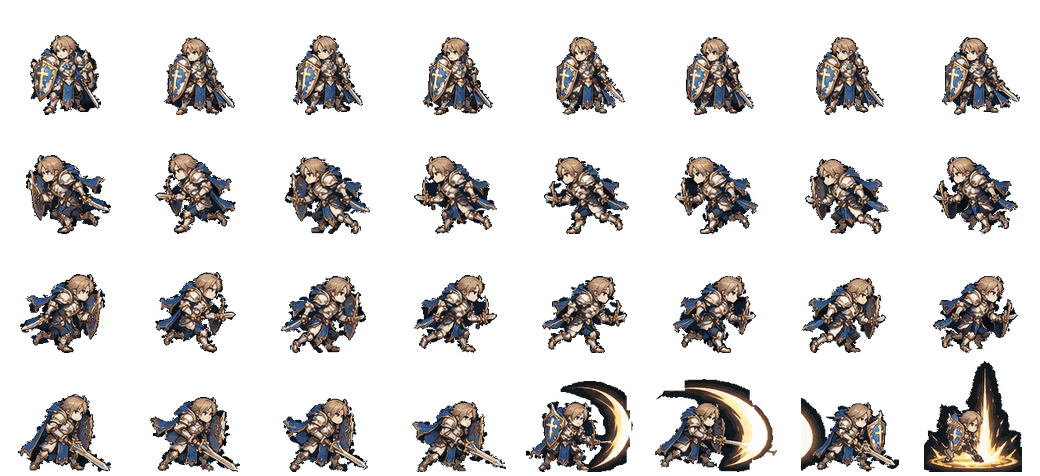
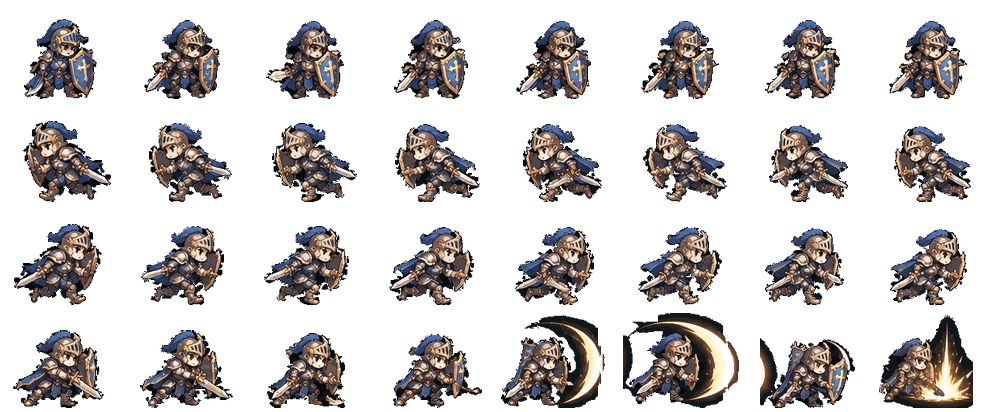
성기사 시안을 갈아 끼운다 — 화풍이 다른 캐릭터와 맞지 않았다
처음 시안은 투구 없는 맨머리에 채색이 밝아, 열여섯이 같은 결로 모인 자리에
하나만 다른 손에서 온 것으로 보였다. 새 시안으로 다시 구웠다(칸 130×119 →
124×103, `box` 34 → 29, 인물 21.4칸으로 다른 아군과 같다).

**세 줄이 다 오른쪽을 보는 시안이라 대기와 공격을 그대로 구웠다.** 아군이 보아야
할 방향이 오른쪽이라 뒤집을 것이 없었고 걷기만 왼쪽을 만들어 붙였다 — 앞 시안과
정반대다(그쪽은 걷기가 왼쪽이라 대기를 뒤집었다). 투구를 쓰고 있어 방향은 눈이
아니라 면갑의 창살과 깃털로 읽는다.

칸이 작아진 만큼 잘라 내는 자리도 다시 쟀다. 초상화는 투구 전체가 들어오도록
넓혔다 — 처음 값으로는 투구 위쪽만 잡혀 면갑이 잘렸다.

Claude-Session: https://claude.ai/code/session_015YSpsURuUqPhSx5KiHykMJ

diff --git a/games/healer/sprites.js b/games/healer/sprites.js
@@ -209,17 +209,19 @@ const SHEETS = {
     },
   },
 
-  // 성기사. **칸이 아군 중에 가장 크다**(130×119, 다음이 음유시인의 102×95).
-  // 공격의 마지막 두 장이 인물만 한 빛의 초승달과 위로 솟는 빛기둥이라, 칸을
-  // 인물에 맞춰 자르면 그것이 잘린다. **인물 키는 다른 아군과 같은 21.7칸**이고
-  // (`box` 34는 칸 높이를 화면 칸으로 옮긴 값이라 인물이 커지는 것이 아니다),
-  // 남는 자리는 전부 투명하다 — 규칙은 이 상자를 보지 않고 화면의 노드 폭만
-  // 이것으로 정한다.
+  // 성기사. **시안을 한 번 갈아 끼웠다** — 처음 것은 다른 캐릭터와 화풍이 맞지
+  // 않았다(투구 없는 맨머리에 채색이 밝았다). 지금 것은 투구를 쓰고 있어 얼굴이
+  // 보이지 않으므로, **방향은 면갑의 창살과 깃털로 읽는다** — 창살이 앞, 깃털이
+  // 뒤다.
+  //
+  // **세 줄이 다 오른쪽을 보는 시안이라 대기와 공격을 그대로 구웠다.** 아군이
+  // 보아야 할 방향이 오른쪽이라 뒤집을 것이 없었고, 걷기만 왼쪽을 만들어 붙였다 —
+  // 앞 시안과 정반대다(그쪽은 걷기가 왼쪽이었다).
   paladin: {
     src: 'paladin.png',
-    cell: { w: 130, h: 119 },
+    cell: { w: 124, h: 103 },
     cols: 8, rows: 4,
-    box: 34,
+    box: 29,
     clips: {
       idle:      { row: 0, frames: 8, fps: 6 },
       walkLeft:  { row: 1, frames: 8, fps: 10 },
@@ -228,8 +230,8 @@ const SHEETS = {
     },
     crops: {
       full: { x: 0, y: 0, w: 1, h: 1 },
-      list: { x: 0.25, y: 0.28, w: 0.58, h: 0.70 },
-      head: { x: 0.35, y: 0.25, w: 0.28, h: 0.30 },
+      list: { x: 0.18, y: 0.18, w: 0.60, h: 0.79 },
+      head: { x: 0.36, y: 0.17, w: 0.30, h: 0.36 },
     },
   },
 

diff --git a/index.html b/index.html
@@ -121,7 +121,7 @@
     <a href="https://github.com/cshlacid/web-games">GitHub</a>
     <!-- 배포 표시. main에 머지할 때마다 올린다 — 규칙은 CLAUDE.md에 있다.
          날짜에 그날의 번호를 붙여, 같은 날 여러 번 올려도 구별된다. -->
-    <span class="deploy">2026-09-09.20</span>
+    <span class="deploy">2026-09-09.21</span>
   </footer>
 </main>
 

diff --git a/games/healer/CLAUDE.md b/games/healer/CLAUDE.md
@@ -1955,21 +1955,23 @@ Lv6 알맞음 75% · Lv6+3 방치 4% · Lv6+3 42% · Lv3+2 46% · Lv8+2 25% · L
   마법사는 칸 84×96에 공격만 7장, 도적은 칸 101×88에, 음유시인은 칸 102×95에,
   사제는 칸 102×89에, 전사는 칸 93×90에, 고블린은 칸 98×107에, 오크는 칸 92×90에,
   오우거는 칸 98×99에, 우두머리는 칸 117×100에, 좀비는 칸 99×103에, 구울은
-  칸 97×105에, 성기사는 칸 130×119에 넷 다 8장이고,
+  칸 97×105에, 성기사는 칸 124×103에 넷 다 8장이고,
   오크 주술사는 칸 93×99에, 고블린 주술사는 칸 95×92에 공격만 7장이다. 줄마다 프레임 수가 달라 남는 칸은 비워 둔다 —
   줄을 나누는 편이 파일을 여럿으로 쪼개는 것보다 요청이 적다.
-- **성기사의 칸이 아군 중에 가장 크다**(130×119, 다음이 음유시인의 102×95).
-  공격의 마지막 두 장이 인물만 한 빛의 초승달과 위로 솟는 빛기둥이라, 칸을 인물에
-  맞춰 자르면 그것이 잘린다. **칸이 커져도 인물은 다른 아군과 같은 21.7칸이다** —
-  `box`(34)는 칸 높이를 화면 칸으로 옮긴 값이라 인물을 키우지 않고, 규칙은 이
-  상자를 아예 보지 않는다(`Sprites.size`를 쓰는 곳은 화면의 노드 폭 하나뿐이다).
-  대신 **잘라 내는 자리를 인물에 바짝 붙여야 한다** — 칸이 넓은 만큼 기본값으로는
-  카드에서 혼자 작게 그려진다.
-- **시안의 공격 효과가 칸 선을 넘어 그려져 있었다.** 초승달이 다음 칸 절반까지
-  뻗어 있어 칸 안으로만 자르면 세로로 뭉텅 잘렸다. 오른쪽으로만 창을 넓히고
-  (왼쪽까지 넓히면 앞 장의 초승달 꼬리가 들어온다) 넓힌 자리에서는 **밝고 금빛인
-  것만** 줍는다 — 다음 칸 인물의 남색 망토가 초승달 끝과 이어져 있어 밝기만으로는
-  안 갈렸다.
+- **성기사는 시안을 한 번 갈아 끼웠다.** 처음 것은 투구 없는 맨머리에 채색이
+  밝아 **다른 캐릭터와 화풍이 맞지 않았다** — 열여섯이 같은 결로 모인 자리에
+  하나만 다른 손에서 온 것으로 보였다. 지금 것은 투구를 쓰고 있어 **방향을 눈이
+  아니라 면갑의 창살과 깃털로 읽는다**(창살이 앞, 깃털이 뒤다).
+- **세 줄이 다 오른쪽을 보는 시안이라 대기와 공격을 그대로 구웠다.** 아군이 보아야
+  할 방향이 오른쪽이라 뒤집을 것이 없었고, 걷기만 왼쪽을 만들어 붙였다 — 앞
+  시안과 정반대다(그쪽은 걷기가 왼쪽이라 대기를 뒤집었다). **시안마다 다르므로
+  구운 뒤에 네 줄을 다시 본다.**
+- **공격 효과가 칸 선을 넘는 시안이 있다.** 앞 성기사 시안이 그랬는데, 초승달이
+  다음 칸 절반까지 뻗어 있어 칸 안으로만 자르면 세로로 뭉텅 잘렸다. 오른쪽으로만
+  창을 넓히고(왼쪽까지 넓히면 앞 장의 초승달 꼬리가 들어온다) 넓힌 자리에서는
+  **밝고 금빛인 것만** 줍는다 — 다음 칸 인물의 남색 망토가 초승달 끝과 이어져
+  있어 밝기만으로는 안 갈렸다. 지금 시안은 넘지 않지만 오리는 스크립트는 그대로
+  두었다: 넘지 않는 시안에서는 아무것도 달라지지 않는다.
 - **적 시안은 뒤집지 않는다.** 아군은 대기와 공격이 오른쪽(적 쪽)을 봐야 해서
   대기 줄을 뒤집는데, 적은 파티를 마주 보므로 왼쪽이 맞는 방향이고 시안이 이미
   그쪽을 본다. 걷기 두 줄은 아군과 같다 — 왼쪽이 원본, 오른쪽이 뒤집은 것.
@@ -1977,8 +1979,9 @@ Lv6 알맞음 75% · Lv6+3 방치 4% · Lv6+3 42% · Lv3+2 46% · Lv8+2 25% · L
   **적 여덟이 모두 공격에서 오른쪽을 보고 있었다** — 시안의 공격이 전부 오른쪽으로
   그려져 있는데 "적 시안은 뒤집지 않는다"를 그대로 적용해 구웠기 때문이다. 대기와
   걷기는 시안이 왼쪽을 보므로 그 규칙이 맞았고, 공격만 어긋났다. 지금은 여덟의
-  공격 줄을 뒤집어 두었다. **성기사**는 걷기 두 줄이 서로 바뀌어 있었다(시안의
-  걷기를 왼쪽으로 잘못 읽고 구웠다). 나머지는 다 맞았다.
+  공격 줄을 뒤집어 두었다. **성기사**도 걷기 두 줄이 서로 바뀌어 있었는데(시안의
+  걷기를 왼쪽으로 잘못 읽고 구웠다), 그 뒤 시안을 통째로 갈아 끼우면서 함께
+  사라졌다. 나머지는 다 맞았다.
 - **판단은 눈과 머리로 한다.** 참격이 나가는 방향으로 읽으면 틀린다 — 공격 자세는
   몸을 틀어 무기가 대기와 반대 손에 가 있는 시안이 많아(수호자·마법사·궁수·주인공이
   그렇다) 참격만 보면 멀쩡한 줄을 뒤집게 된다. **귀·뿔·머리카락·망토는 뒤로
